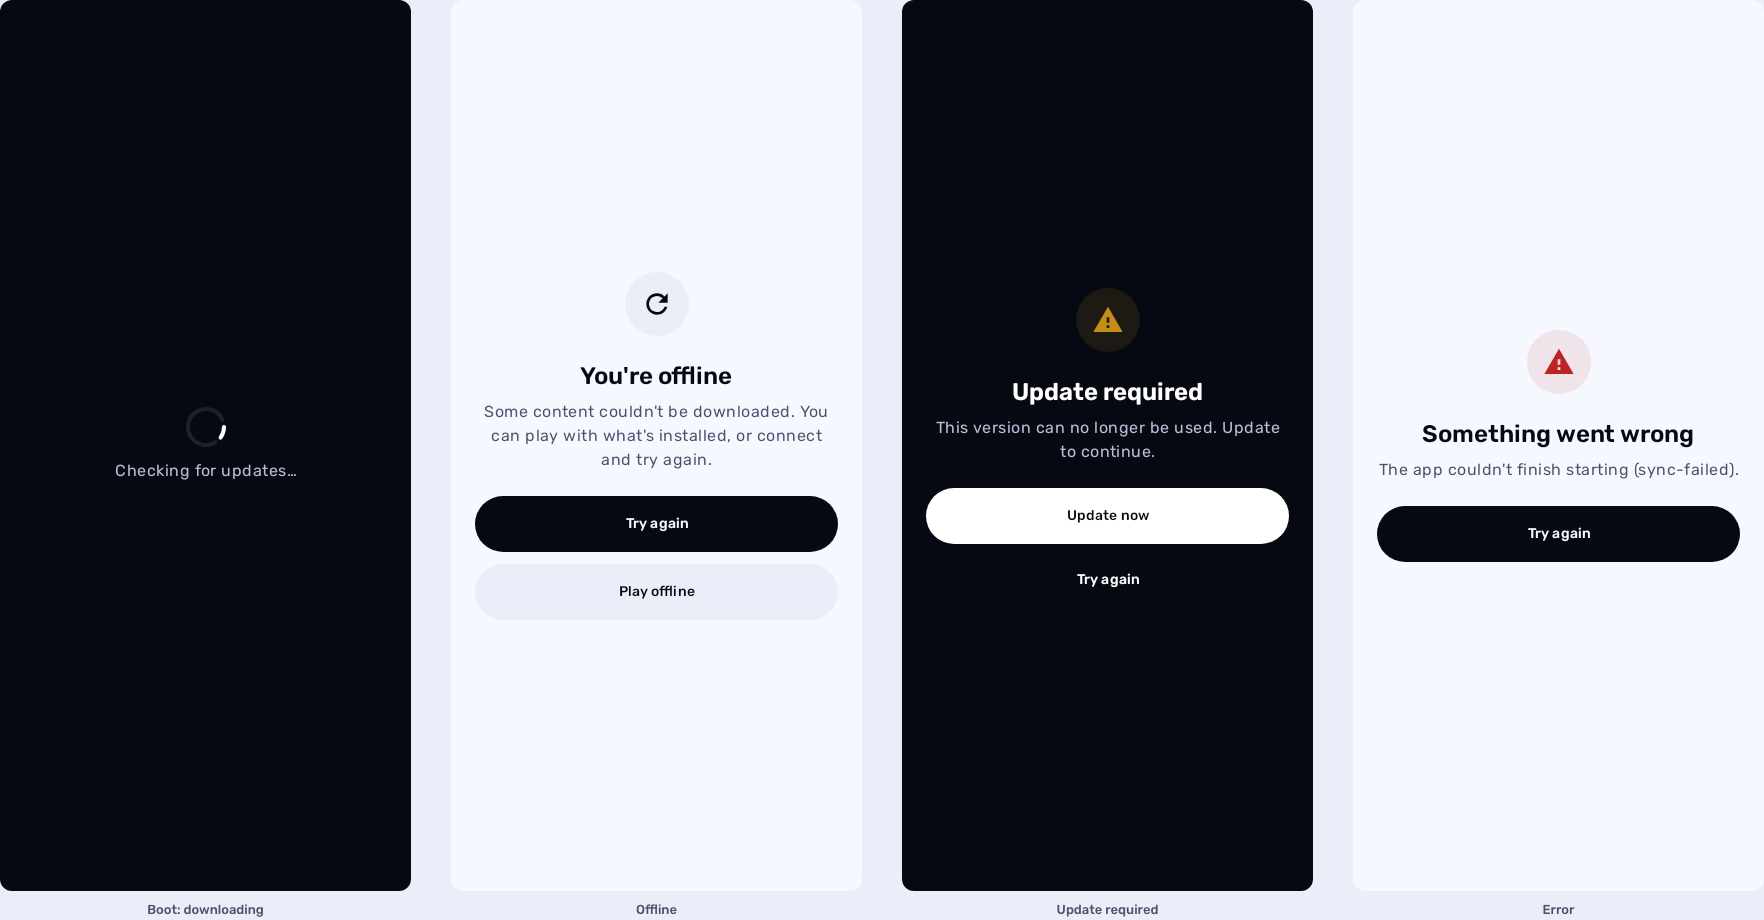
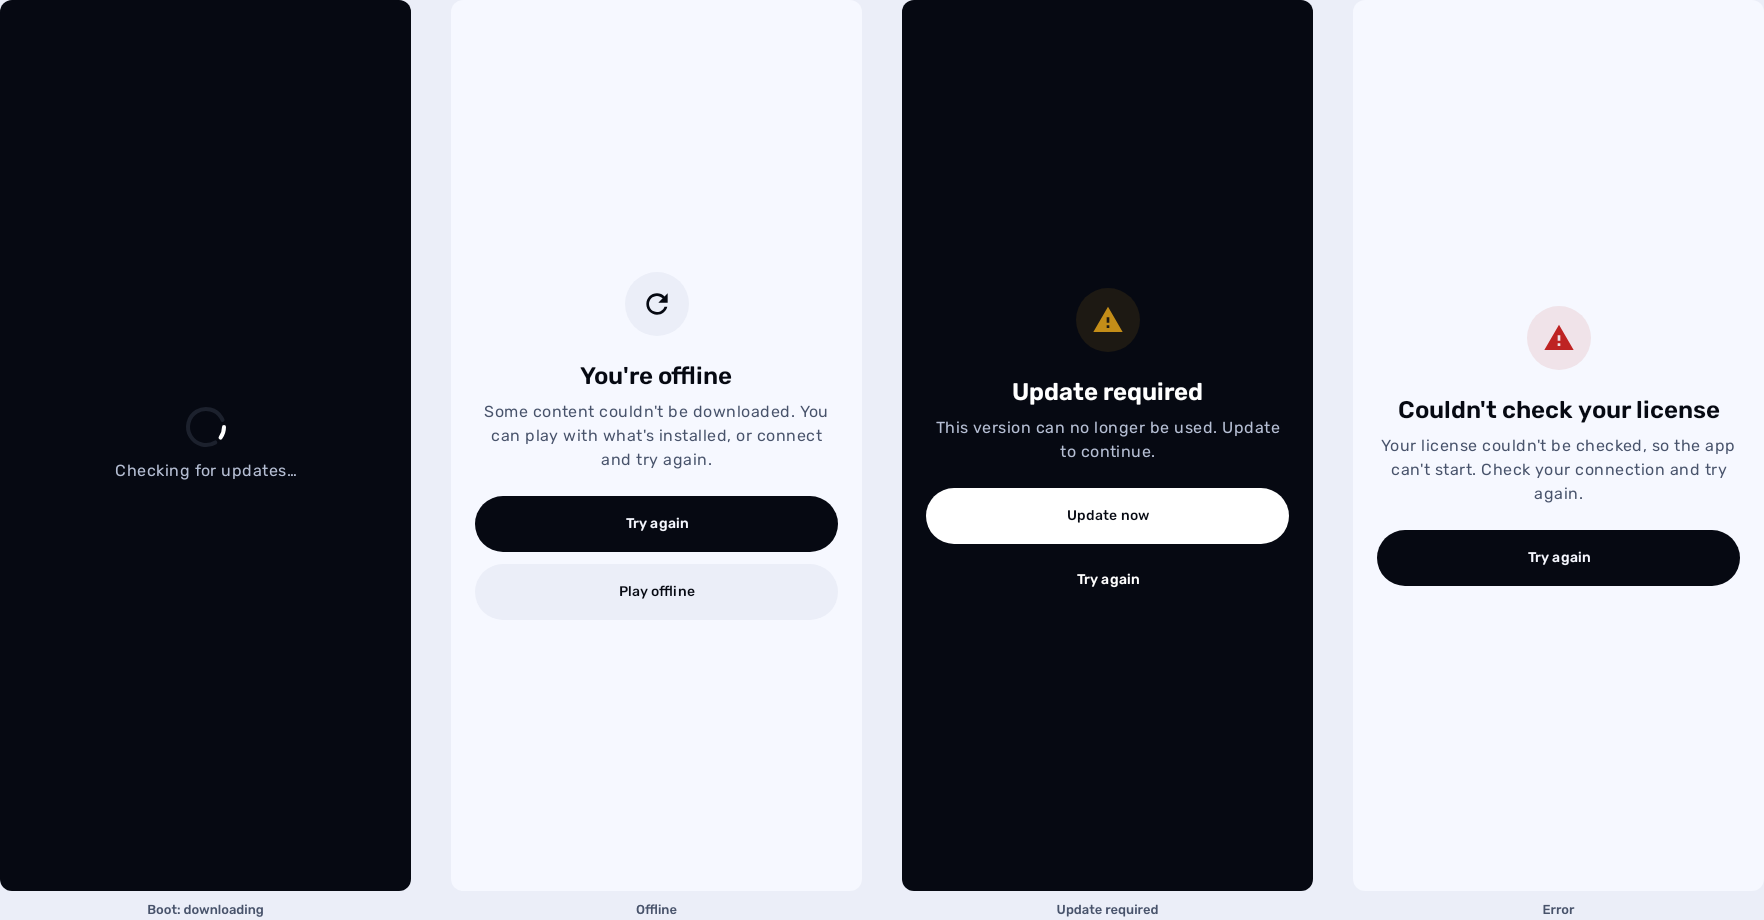
UK-59 close: boards match the KF-native and KF-web outputs
Terminal device-limit frame matches both goldens (Locker link, one sentence); iPad frames re-rendered; shots re-rendered; terminal debt 45 to 39; UK-11 gap list resolved per line.

Changed region(s): [[0.7795, 0.3652, 0.9977, 0.6391]]

diff --git a/docs/design/ui-kits/terminal.html b/docs/design/ui-kits/terminal.html
@@ -308,8 +308,7 @@
       <figure>
         <figcaption>
           terminal · device limit on the key path (replace a device in the
-          browser). Built today (Python golden; Node words the hand-off
-          differently)
+          browser). Built today (Node and Python goldens)
         </figcaption>
         <div class="shot cols80" data-shot="device-limit">
           <div class="tbar"><i></i><i></i><i></i>tidewater — 80 × 24</div>
@@ -401,7 +400,7 @@
       <figure>
         <figcaption>
           terminal · 60 columns (the device limit's browser hand-off; the text
-          wraps at the column). Built today (Python golden)
+          wraps at the column). Built today (Node and Python goldens)
         </figcaption>
         <div class="shot cols60" data-shot="narrow">
           <div class="tbar"><i></i><i></i><i></i>tidewater — 60 × 24</div>
@@ -899,19 +898,8 @@
           ["s", "Your license is on 3 of 3 devices"],
         ],
         rail(["s", "●●●"]),
-        ...(cols < 80
-          ? [
-              rail(["", "Replace a device in your browser. Tidewater Studio"]),
-              rail(["", "continues when you're done."]),
-            ]
-          : [
-              rail([
-                "",
-                "Replace a device in your browser. Tidewater Studio continues when",
-              ]),
-              rail(["", "you're done."]),
-            ]),
-        rail(["u", "key.plrs.im/portal/tidewater/devices"]),
+        rail(["", "Replace a device in your browser, then try again here."]),
+        rail(["u", "polaris.locker/#/p/tidewater/devices"]),
         [
           ["m", "└  "],
           ...keys(["Enter", "open in browser"], ["Esc", "cancel"]),

diff --git a/docs/research/2026-09-29-godot-omniplatform/program/wp/UK-59-built-kit-boards-refresh.md b/docs/research/2026-09-29-godot-omniplatform/program/wp/UK-59-built-kit-boards-refresh.md
@@ -178,26 +178,30 @@ Left: apple.html iPad from built SwiftUI renders (needs a simulator or Xcode; th
 
 ## Kit gaps for UK-11
 
-"Fix in flight: KF-native" marks a gap the parallel KF-native package fixes in code; the lead
-updates those lines after it lands.
+Updated after KF-native and KF-web landed (UK-59 close, 2026-10-21): every former "Fix in flight"
+line is resolved below, fixed (with its commit) or still a gap (with what remains).
 
 - Godot: the boot bar is part-filled; DL7 wants the 2 px shimmer (owner: Godot kit).
 - Godot: status shows the gate's Signed out form with no Renew action; the target has a status screen (owner: Godot kit).
 - Godot: the error and device-limit frames have no copy for the cached license ("play continues on the cached license") (owner: Godot kit).
 - Godot: sign-in title is "Sign in", the target says "Sign in with a code" (the URL is already polaris.locker/device) (owner: Godot kit).
 - Godot: no activate dialog (the key form sits on the gate) and no 1280 x 800 render in tools/ui_screenshots.gd (owner: Godot kit).
-- Godot and Compose: no product icon and name (DL5) on most screens; on Godot every built frame, the gate included. Fix in flight: KF-native.
-- Kotlin: the welcome lede is hard-coded rather than the catalog's (owner: Compose kit). Fix in flight: KF-native.
+- Godot: no product icon and name (DL5) on every built frame, the gate included; KF-native changed only a focus-ring comment there, so it stands (owner: Godot kit).
+- Compose: the product header (icon and name) now leads the sign-in form (6e6866800); the other Compose screens (expired, boot, error, device limit) still carry no product header (DL5) (owner: Compose kit).
+- Kotlin: the welcome lede is the catalog's `welcome.lede` (PolarisCopy.kt reads it, 050f40049); no longer a gap.
 - Kotlin: no Compose snapshots for tablet portrait, nor a product icon on expired (DL3) (owner: Compose kit).
-- Kotlin: the sign-in code view prints `key.plrs.im/activate`; it must be `polaris.locker/device` (android-compose-sign-in). Fix in flight: KF-native.
-- Kotlin: boot draws a stock spinner, not the DL7 shimmer (owner: Compose kit). Fix in flight: KF-native.
-- Kotlin: the error screen shows the raw code "(sync-failed)" to the user (owner: Compose kit). Fix in flight: KF-native.
-- Swift: boot draws a spinner, not the DL7 shimmer (owner: SwiftUI kit). Fix in flight: KF-native.
-- Swift on iPad: the primary button sits about 600 pt below the content on a 13-inch portrait (owner: SwiftUI kit). Fix in flight: KF-native.
+- Kotlin: the sign-in code view still prints `key.plrs.im/activate` (android-compose-sign-in re-rendered 2026-10-21); it must be `polaris.locker/device`. KF-native (6e6866800) fixed the code view's sentence, header and buttons, not the address, which comes from the verification URI the preview supplies (owner: Compose kit).
+- Kotlin: boot still draws a stock spinner, not the DL7 shimmer (boot-progress snapshot; KF-native did not touch it) (owner: Compose kit).
+- Kotlin: fixed in 6e6866800: the error screen reads the catalog's "Couldn't check your license" copy for `sync-failed`; the raw code appears only for an unknown code.
+- Swift: boot still draws a spinner, not the DL7 shimmer; KF-native did not touch it (owner: SwiftUI kit).
+- Swift on iPad: fixed in 09df6e2d1 (the actions stay with the content); the iPad frames on the boards are re-rendered from it.
 - Swift: no landscape split Welcome render on iPad (the headless simulator cannot rotate), and no ActivityKit surface or StoreKit paywall in the kit (owner: SwiftUI kit).
-- Terminals (Node and Python): the device-management link is `key.plrs.im/portal/...`, but `CUSTOMER_ORIGIN_DEFAULT` is `polaris.locker` (owner: terminal kits).
-- Terminals: Node and Python word the device-limit sentence differently ("then try again here" versus "continues when you're done"); the board frame matches Python only (owner: terminal kits).
+- Terminals: fixed in a8d1f65ac: the fixture device-management link is `polaris.locker/#/p/tidewater/devices` in both kits and the goldens; the boards print it.
 - Apple and desktop: no built renders of visionOS, tvOS, watchOS or macOS (owner: SwiftUI kit).
+
+Removed: "Node and Python word the device-limit sentence differently". They did not: both goldens
+say "Replace a device in your browser, then try again here."; the board frame was the stale part
+(it carried an older sentence) and now matches both.
 
 Removed: "the Node terminal prints key.plrs.im/device". The Node golden `sign-in-handoff-code` prints
 `polaris.locker/device`.
@@ -212,3 +216,10 @@ docs/design/ui-kits are hand-authored HTML with no `_src`, so they were edited i
 - Device-code address is polaris.locker/device on web and Android; the Android hand-off has Open browser as the primary and no QR.
 - Copy: Android, Godot and iOS drift fixed to catalog (lede, Replace, license expired, can't connect, dates); fixtures went to strings.allow.json with reasons. Debt 177 entries to 45 (169 on the six boards to 45: web 13, terminal 31, apple 1).
 - Boards: title and section headings, frames wider than the window scroll inside their figure (no page sideways scroll at 1600 px), terminal fallbacks 3 + 2 centred, terminal device-limit captions say Python golden.
+
+## UK-59 close (2026-10-21, fix/uk59-close)
+
+- terminal.html: the device-limit frame (80 and 60 columns) matches the Node and Python goldens (one sentence, `polaris.locker/#/p/tidewater/devices`); both captions say Node and Python goldens.
+- apple.html: the seven iPad states under shots/ipad-built (14 JPEGs) re-rendered from the current kit on the iPad Pro 13-inch simulator (examples/ui/swiftui run.sh, 960 px JPEGs): the actions sit with the content.
+- Compose frames reference the Roborazzi snapshots in place, so the re-render picks up KF-native's PNGs (sign-in header and buttons, error copy). Web frames already carry polaris.locker/device; the React baselines changed in ways the hand-drawn web frames never showed.
+- strings.debt.json 45 to 39: the six terminal device-limit and narrow entries (old sentence and `key.plrs.im/portal`) are gone; the fixture link went to strings.allow.json.
